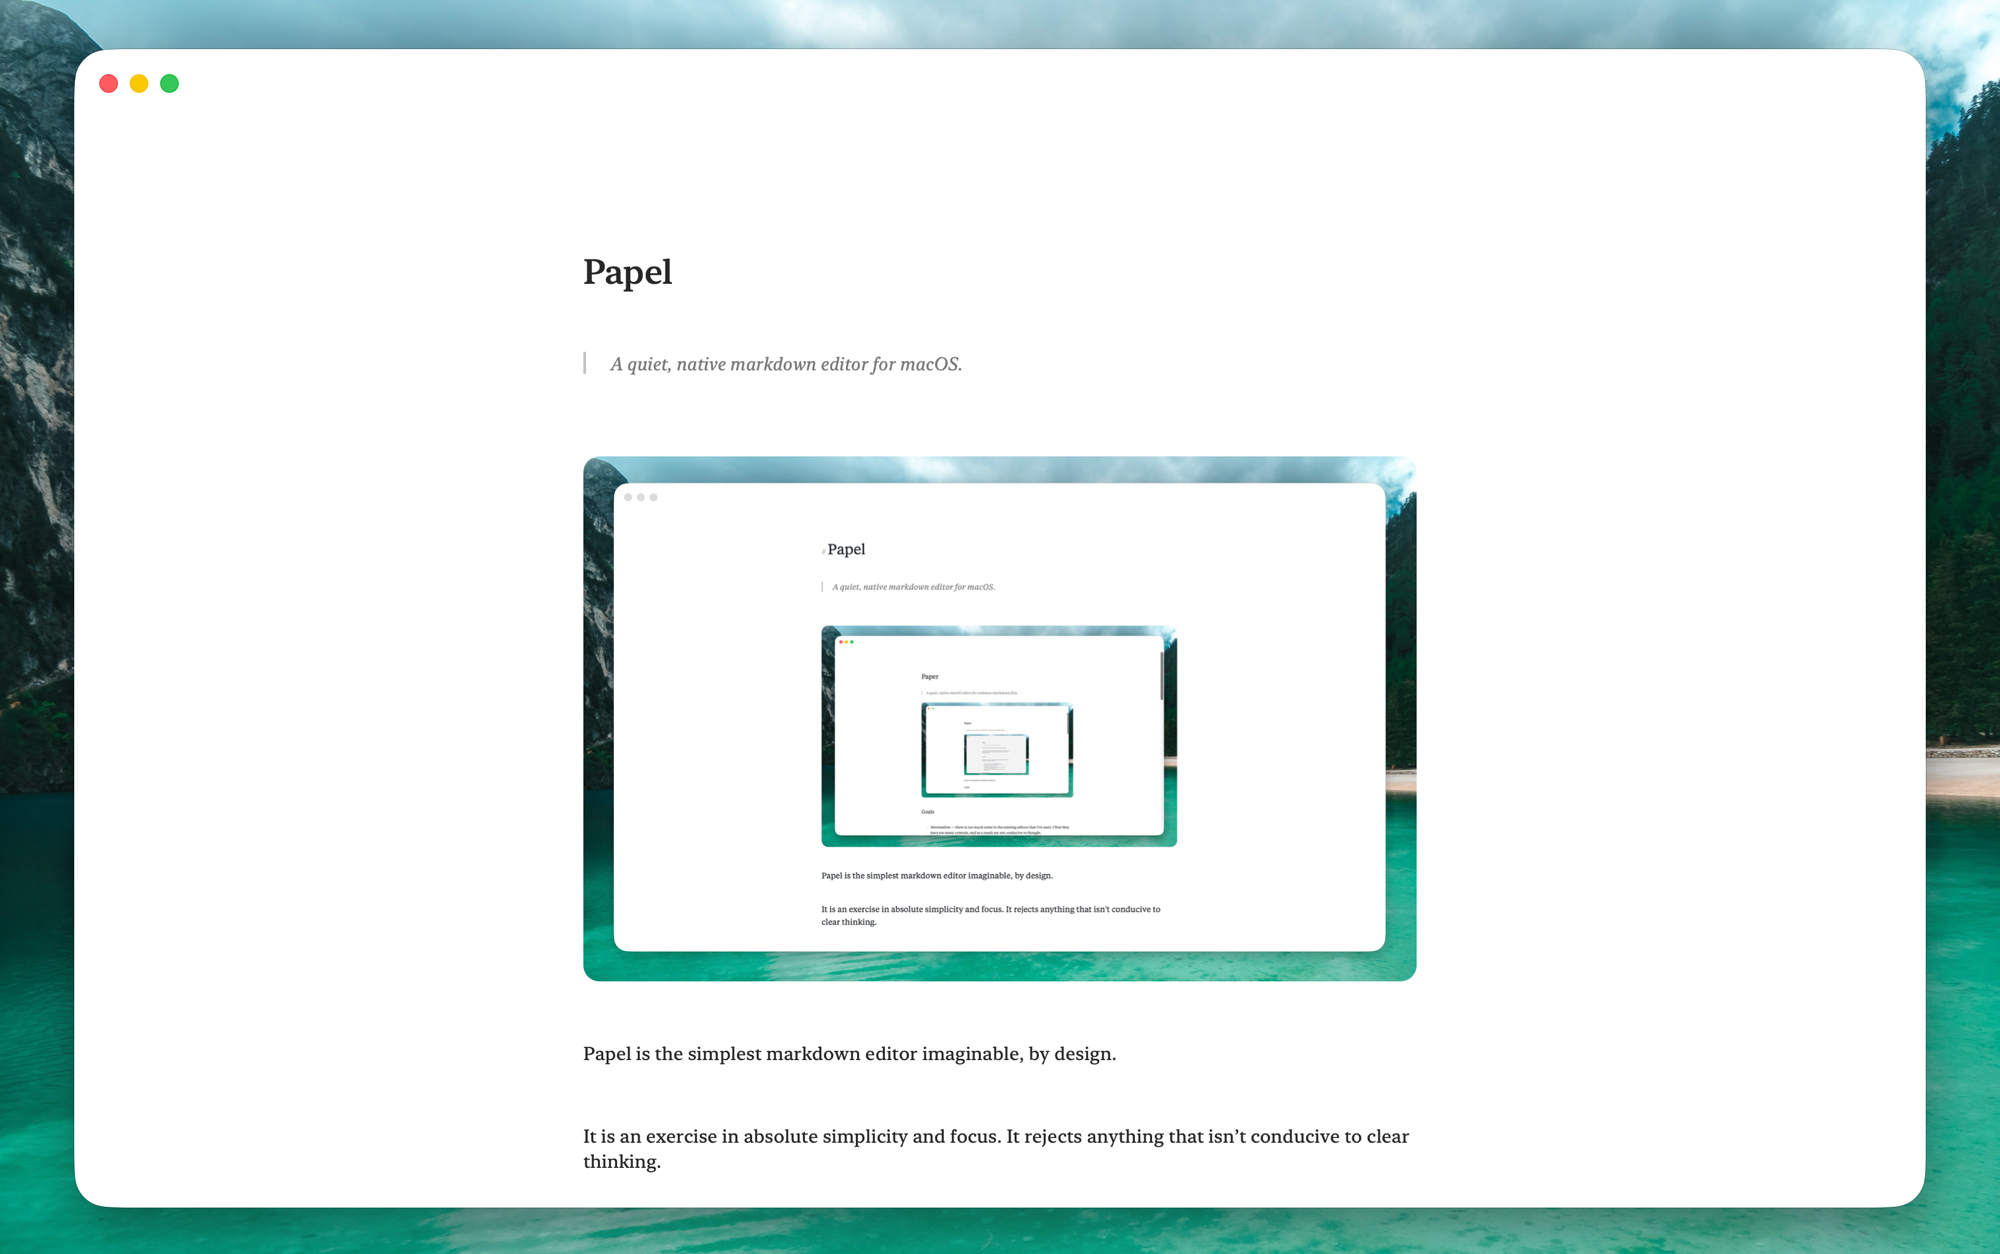
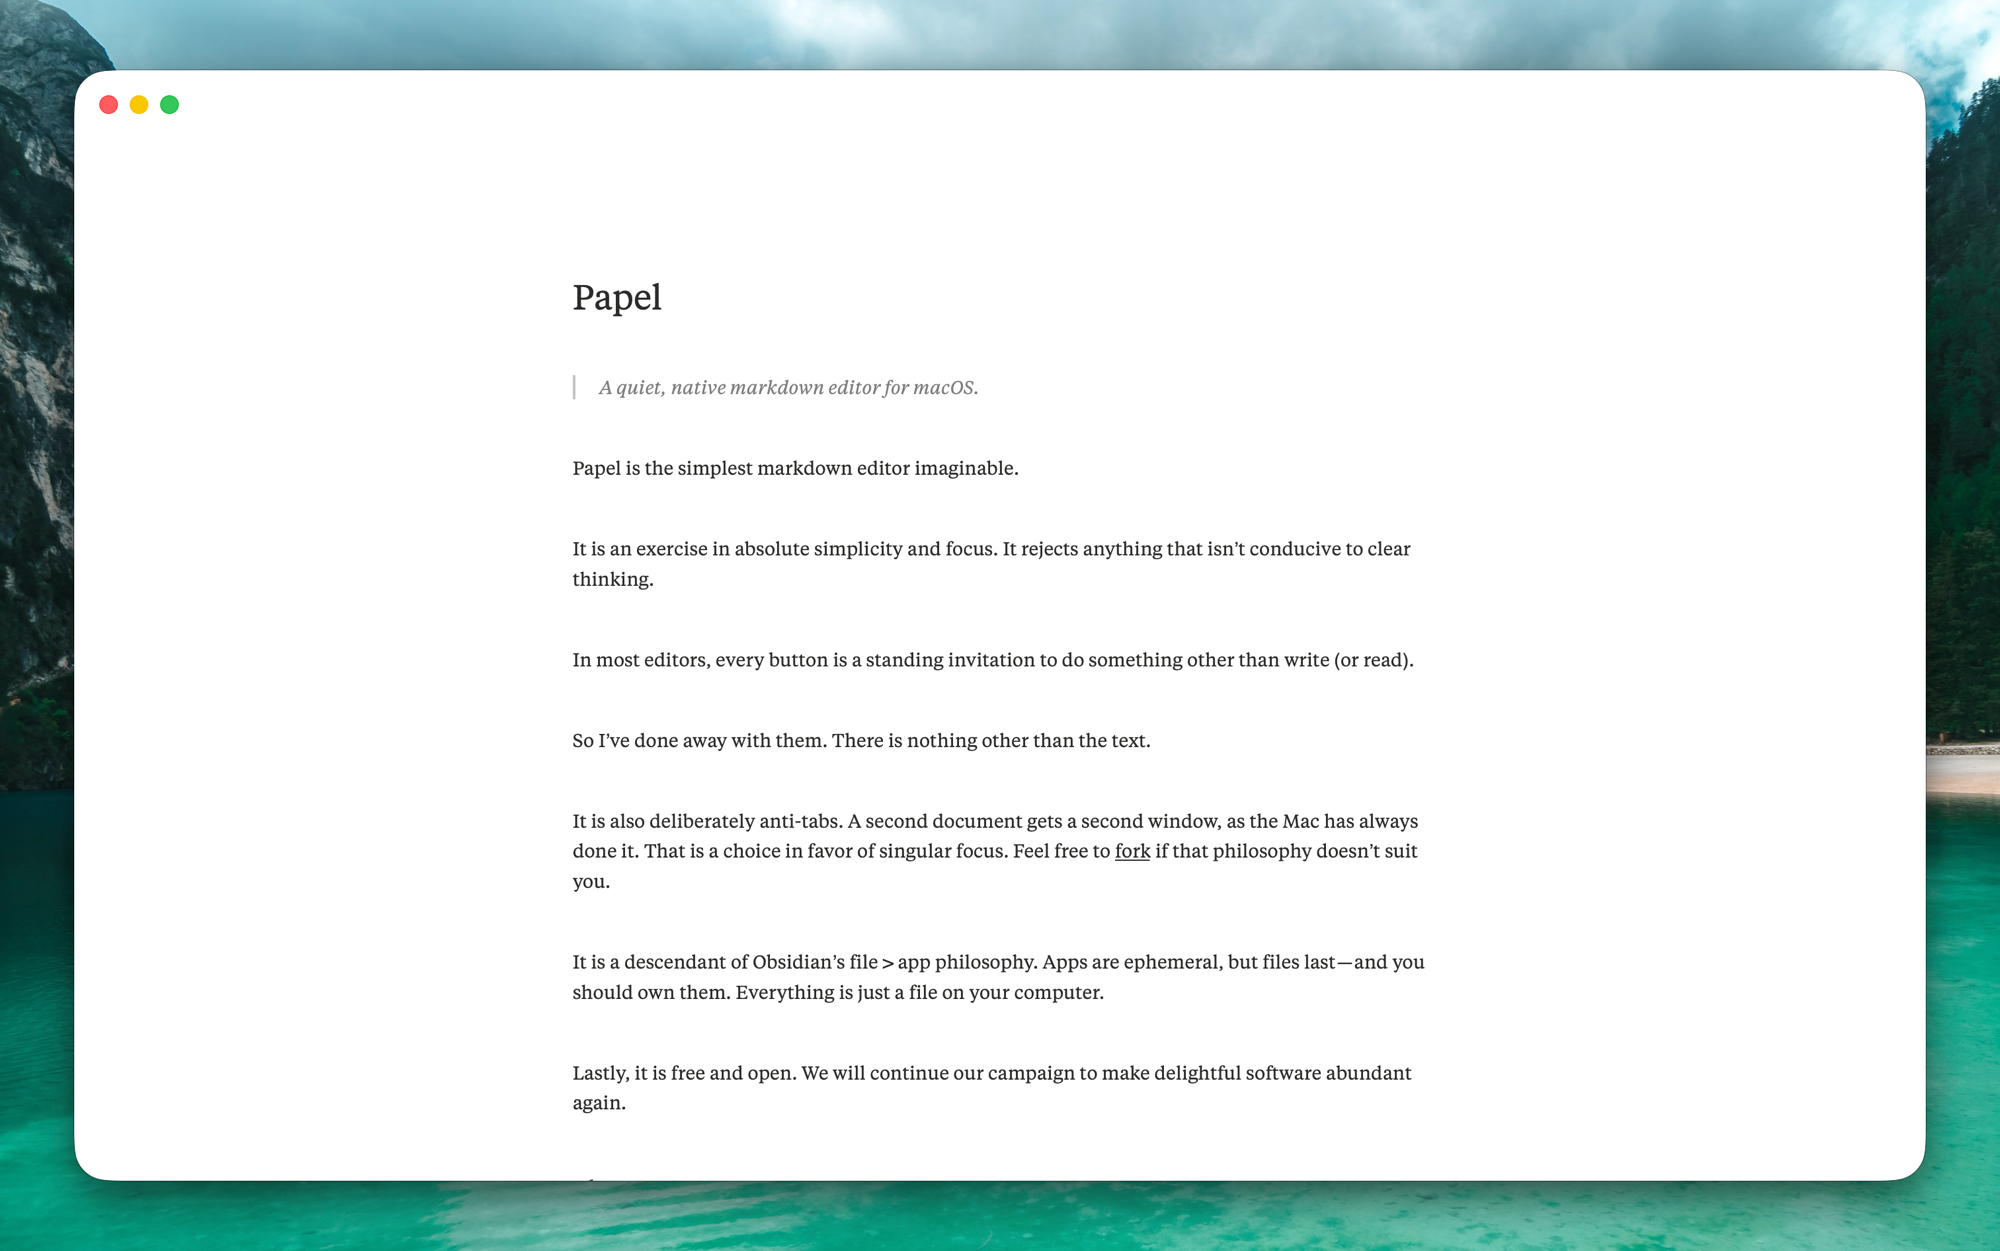
Replace the capture with one that shows the README without the embedded image

diff --git a/site/index.html b/site/index.html
@@ -172,7 +172,7 @@
   <p class="buttons"><a class="pill download" href="https://github.com/humanitas-labs/papel/releases/latest/download/Papel.dmg" download><svg viewBox="0 0 24 24" aria-hidden="true"><path d="M12.152 6.896c-.948 0-2.415-1.078-3.96-1.04-2.04.027-3.91 1.183-4.961 3.014-2.117 3.675-.546 9.103 1.519 12.09 1.013 1.454 2.208 3.09 3.792 3.039 1.52-.065 2.09-.987 3.935-.987 1.831 0 2.35.987 3.96.948 1.637-.026 2.676-1.48 3.676-2.948 1.156-1.688 1.636-3.325 1.662-3.415-.039-.013-3.182-1.221-3.22-4.857-.026-3.04 2.48-4.494 2.597-4.559-1.429-2.09-3.623-2.324-4.39-2.376-2-.156-3.675 1.09-4.61 1.09zM15.53 3.83c.843-1.012 1.4-2.427 1.245-3.83-1.207.052-2.662.805-3.532 1.818-.78.896-1.454 2.338-1.273 3.714 1.338.104 2.715-.688 3.559-1.701"/></svg>Download for Mac</a><a class="pill outline" href="https://github.com/humanitas-labs/papel"><svg viewBox="0 0 24 24" aria-hidden="true"><path d="M12 .297c-6.63 0-12 5.373-12 12 0 5.303 3.438 9.8 8.205 11.385.6.113.82-.258.82-.577 0-.285-.01-1.04-.015-2.04-3.338.724-4.042-1.61-4.042-1.61C4.422 18.07 3.633 17.7 3.633 17.7c-1.087-.744.084-.729.084-.729 1.205.084 1.838 1.236 1.838 1.236 1.07 1.835 2.809 1.305 3.495.998.108-.776.417-1.305.76-1.605-2.665-.3-5.466-1.332-5.466-5.93 0-1.31.465-2.38 1.235-3.22-.135-.303-.54-1.523.105-3.176 0 0 1.005-.322 3.3 1.23.96-.267 1.98-.399 3-.405 1.02.006 2.04.138 3 .405 2.28-1.552 3.285-1.23 3.285-1.23.645 1.653.24 2.873.12 3.176.765.84 1.23 1.91 1.23 3.22 0 4.61-2.805 5.625-5.475 5.92.42.36.81 1.096.81 2.22 0 1.606-.015 2.896-.015 3.286 0 .315.21.69.825.57C20.565 22.092 24 17.592 24 12.297c0-6.627-5.373-12-12-12"/></svg>Source</a><span class="fine">macOS 15 or later · free, MIT</span></p>
   <div class="blank"></div>
 
-  <figure><img src="papel.png" alt="A Papel window showing a Markdown document: a heading, an italic quote behind a rule, and an embedded screenshot of the app itself." width="2000" height="1254"></figure>
+  <figure><img src="papel.png" alt="A Papel window showing its own README: a heading, an italic quote behind a rule, and a few paragraphs of prose." width="2000" height="1251"></figure>
   <div class="blank"></div>
 
   <p>Papel is the simplest markdown editor imaginable.</p>

diff --git a/README.md b/README.md
@@ -2,7 +2,7 @@
 
 > A quiet, native markdown editor for macOS.
 
-![Papel showing a Markdown document: a heading, an italic quote behind a rule, and an embedded screenshot of the app itself](docs/assets/papel.png)
+![Papel showing its own README: a heading, an italic quote behind a rule, and a few paragraphs of prose](docs/assets/papel.png)
 
 Papel is the simplest markdown editor imaginable.
 
